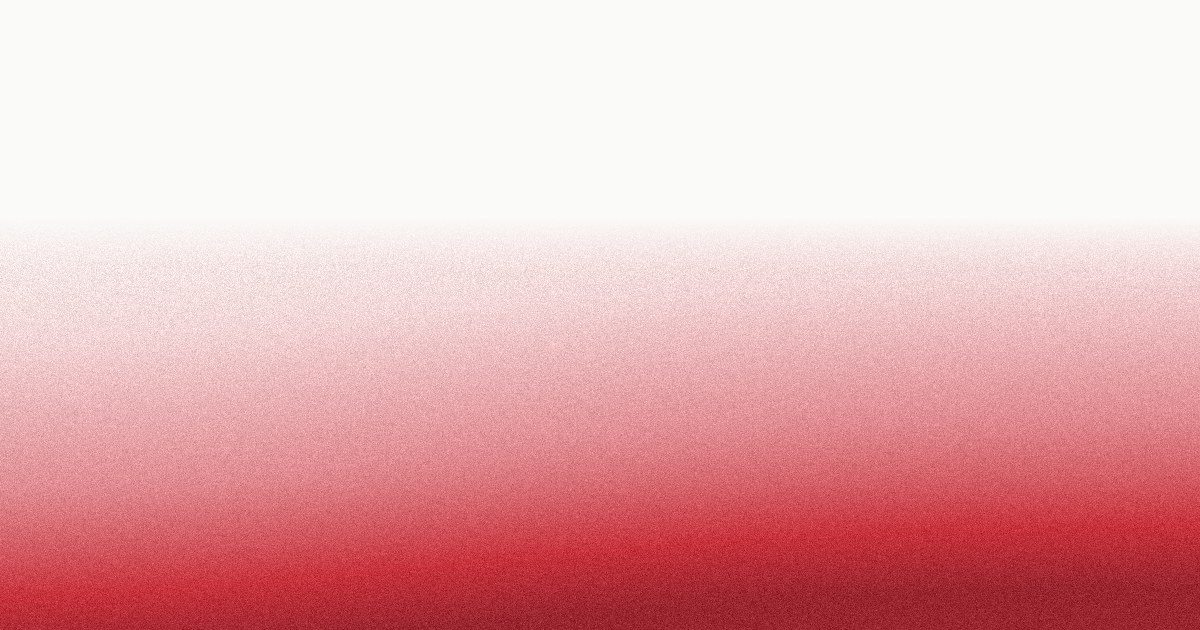
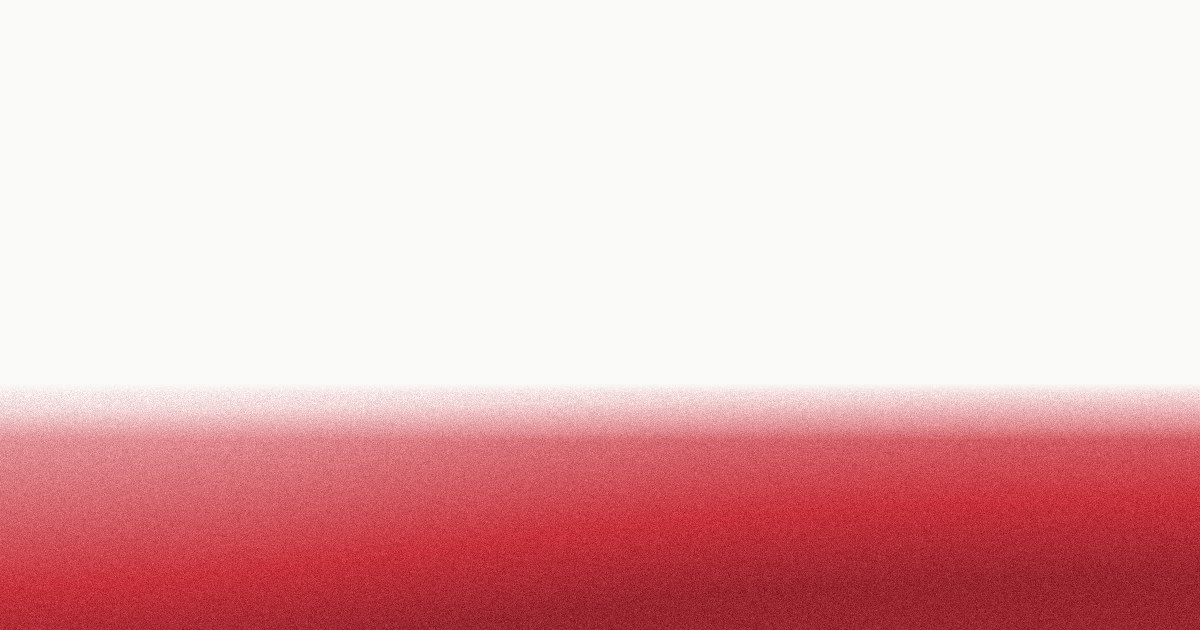
fix(landing): PC — el degradado vuelve a la receta de mobile, header de verdad, sección 2 agrupada, explicación por veredicto
QA de Fabrizio: la rampa larga de la v2.3 quedó descartada. PC usa la MISMA
receta que mobile (rampa 1,3), con 24 vh de rojo en hero y cierre (banda de
39 svh): el degradado queda en el tercio inferior y se ve igual que en el
teléfono. Las imágenes d2x vuelven a 3000×975.

Header: el wordmark y "Entrar" van en una fila de header (88 px en PC, 64 en
mobile), alineados a la línea del wordmark, no un logo suelto pegado al borde.

Sección 2: la etiqueta "La respuesta, en fácil" va pegada a la banda (22 px) y
etiqueta + banda + cuerpo se centran como un grupo; los chips siguen al pie en
mobile. Las filas de "Tres respuestas posibles" explican qué significa obtener
cada veredicto, sin cifra: no hablan de un informe en particular. Copy
pendiente de OK.

diff --git a/src/components/landing-v14/landing.css b/src/components/landing-v14/landing.css
@@ -197,7 +197,11 @@ html:has(.lv-root) .lv-input { font-size: 19px !important; }
 .lv-hero > .lv-col { z-index: 1; }
 /* solo el eje vertical: el mockup usaba el shorthand y pisaba los 24px laterales
    de .col (a 390px el texto salía pegado al borde). */
-.lv-hero .lv-top { padding-top: 24px; display: flex; align-items: flex-start; justify-content: space-between; gap: 16px; }
+/* header: wordmark a la izquierda y "Entrar" a la derecha, alineados al centro
+   de la fila, con la altura de un header (no un logo suelto pegado al borde) */
+.lv-hero .lv-top { min-height: 64px; padding-top: 12px; display: flex; align-items: flex-start; justify-content: space-between; gap: 16px; }
+/* "Entrar" centrado con la línea del wordmark (no con el bloque wordmark + slogan) */
+.lv-entrar { margin-top: 1px; padding: 0; line-height: 22px; }
 /* el h1 arriba con su propio aire; el bloque [campo + sin dirección] baja como
    unidad al tercio inferior, sobre la banda roja (FASE 1.3). */
 .lv-hero .lv-mid { flex: 1; display: flex; flex-direction: column; justify-content: flex-end; padding-top: 40px; padding-bottom: 28px; }
@@ -231,11 +235,13 @@ html:has(.lv-root) .lv-input { font-size: 19px !important; }
    "Tres respuestas posibles" + chips abajo (FASE 1.4, mobile y desktop) */
 .lv-s2 { padding: var(--lv-sec) 0; min-height: 100svh; display: flex; flex-direction: column; }
 .lv-s2 > .lv-col { flex: 1; display: flex; flex-direction: column; }
+/* etiqueta + banda + cuerpo son UN grupo, centrado en la pantalla; en mobile los
+   chips quedan al pie (los márgenes auto reparten el aire arriba y abajo del grupo) */
 .lv-s2-grid-inner { flex: 1; display: flex; flex-direction: column; }
-.lv-s2-grid-inner > .lv-idx { margin-bottom: auto; }
-.lv-ans { margin: auto 0; padding: 32px 0; }
+.lv-s2-grid-inner > .lv-idx { margin-top: auto; margin-bottom: 22px; }
+.lv-ans { margin: 0; padding: 0; }
 .lv-ans-izq { min-width: 0; }
-.lv-nav { margin-top: auto; }
+.lv-nav { margin-top: auto; padding-top: 40px; }
 /* sin data-verdict (no debería pasar) los tokens caen a Ink */
 .lv-ans:not([data-verdict]), .lv-chip:not([data-verdict]), .lv-fila:not([data-verdict]) {
   --verdict: var(--lv-ink); --verdict-deep: var(--lv-ink); --verdict-band-0: var(--lv-ink);
@@ -295,7 +301,7 @@ html:has(.lv-root) .lv-input { font-size: 19px !important; }
   margin-bottom: 8px;
 }
 .lv-fila {
-  display: grid; grid-template-columns: auto 1fr auto; align-items: center; column-gap: 14px;
+  display: grid; grid-template-columns: auto 1fr; align-items: start; column-gap: 14px;
   width: 100%; text-align: left; padding: 12px 14px; border: 1px solid var(--lv-ll); background: transparent;
   cursor: pointer; opacity: 0.55; transition: opacity 0.4s, border-color 0.4s, background 0.4s;
   font-family: var(--font-body), "IBM Plex Sans", system-ui, sans-serif; color: var(--lv-ink);
@@ -307,11 +313,7 @@ html:has(.lv-root) .lv-input { font-size: 19px !important; }
   font-size: 10px; font-weight: 700; letter-spacing: 0.12em; padding: 5px 8px; color: #fff;
   background: var(--verdict); white-space: nowrap;
 }
-.lv-fila-razon { font-size: 14px; line-height: 1.3; color: var(--lv-g2); min-width: 0; }
-.lv-fila-cifra {
-  font-family: var(--font-mono), "JetBrains Mono", ui-monospace, monospace;
-  font-size: 15px; font-weight: 700; letter-spacing: -0.02em; color: var(--verdict); white-space: nowrap;
-}
+.lv-fila-razon { font-size: 14px; line-height: 1.4; color: var(--lv-g2); min-width: 0; padding-top: 1px; }
 .lv-chips { display: flex; gap: 6px; }
 .lv-chip {
   font-family: var(--font-mono), "JetBrains Mono", ui-monospace, monospace;
@@ -476,7 +478,8 @@ html:has(.lv-root) .lv-input { font-size: 19px !important; }
   .lv-wm > span { font-size: 26px; }
   .lv-tag { font-size: 11px; letter-spacing: 0.16em; }
   .lv-hero .lv-tag { display: block; }
-  .lv-hero .lv-top { padding-top: 32px; }
+  .lv-hero .lv-top { min-height: 88px; padding-top: 20px; }
+  .lv-entrar { margin-top: 2px; line-height: 26px; }
   .lv-hero .lv-mid { padding-top: 60px; padding-bottom: 40px; }
   .lv-h1 { margin-bottom: 72px; }
   /* h1 + campo en la mitad izquierda; textura y aire a la derecha */
@@ -487,6 +490,7 @@ html:has(.lv-root) .lv-input { font-size: 19px !important; }
   /* sección 2: respuesta a la izquierda, chips al pie a la derecha */
   .lv-band { margin: 0; }
   .lv-nav { margin-top: auto; padding-top: 0; border-top: 0; flex-direction: column; align-items: flex-end; justify-content: flex-end; gap: 12px; }
+  .lv-ans { margin-bottom: auto; }
   .lv-nav .lv-lbl { text-align: right; }
   /* h1 en dos líneas dentro de la mitad izquierda (medido: 8,1 px de ancho por px de cuerpo) */
   .lv-h1 { font-size: 64px; }
@@ -538,12 +542,10 @@ html:has(.lv-root) .lv-input { font-size: 19px !important; }
   .lv-mid-izq, .lv-s4 .lv-cierre-izq { max-width: 820px; }
   .lv-proc { max-width: 40ch; }
   .lv-precio span { max-width: 40ch; }
-  /* bandas de textura en desktop (v2.3): el degradado visible ocupa el tercio
-     inferior (33 vh) con una rampa larga; rojo pleno solo en los 12 vh (hero) y
-     15 vh (cierre) del fondo. La banda mide 41,25 svh porque el 20 % superior de
-     la imagen es papel bajo la máscara. */
-  .lv-fondo-hero { height: 41.25svh; }
-  .lv-fondo-cierre { height: 41.25svh; }
+  /* bandas de textura en desktop: la MISMA receta que en mobile (rampa 1,3), con
+     24 vh de rojo para que el degradado quede en el tercio inferior */
+  .lv-fondo-hero { height: 39svh; }
+  .lv-fondo-cierre { height: 39svh; }
   /* sección 2: banda delgada, cifra 72, razón 32; columna derecha con las filas */
   .lv-band { font-size: 22px; padding: 14px 20px; letter-spacing: 0.14em; }
   .lv-num { font-size: 72px; }

diff --git a/src/components/landing-v14/Respuesta.tsx b/src/components/landing-v14/Respuesta.tsx
@@ -21,13 +21,17 @@ import { captionDeCifraClave, type CifraClave } from "@/lib/cifra-clave";
 import { EV } from "./eventos";
 import type { Veredicto } from "@/lib/types";
 
-/** Qué significa cada veredicto, en una línea (columna derecha en desktop, FASE
- *  1.6). No es la bajada del ejemplo —esa ya está en el bloque grande—, es la
- *  definición del veredicto. Copy de la landing, pendiente de OK de Fabrizio. */
-const DEFINICION: Record<Veredicto, string> = {
-  "BUSCAR OTRA": "Los números no cierran, ni ajustando.",
-  "AJUSTA SUPUESTOS": "Sirve, pero a otro precio o con más pie.",
-  COMPRAR: "Se paga solo y el precio está bien.",
+/** Qué significa obtener cada veredicto, explicado en simple (columna "Tres
+ *  respuestas posibles" en desktop). No habla de un informe en particular: es la
+ *  explicación del veredicto, por eso no lleva cifra. Copy de la landing,
+ *  pendiente de OK de Fabrizio. */
+const EXPLICACION: Record<Veredicto, string> = {
+  "BUSCAR OTRA":
+    "Deptos que no se pagan solos ni ajustando: pones plata todos los meses y la inversión no la recupera.",
+  "AJUSTA SUPUESTOS":
+    "Deptos que sirven, pero no con estos supuestos: a otro precio, con más pie o a otro plazo el negocio funciona.",
+  COMPRAR:
+    "Deptos que se pagan solos y entran a buen precio: el arriendo cubre la cuota y te queda plata cada mes.",
 };
 
 const DUR = 900;
@@ -168,8 +172,7 @@ export function Respuesta({ ejemplos }: { ejemplos: EjemploLanding[] }) {
                 onClick={() => elegir(j)}
               >
                 <span className="lv-fila-banda">{e.etiqueta}</span>
-                <span className="lv-fila-razon">{DEFINICION[e.veredicto]}</span>
-                <span className="lv-fila-cifra">{e.cifra ? fmtCifra(e.cifra) : ""}</span>
+                <span className="lv-fila-razon">{EXPLICACION[e.veredicto]}</span>
               </button>
             ))}
           </div>

diff --git a/src/components/landing-v14/Secciones.tsx b/src/components/landing-v14/Secciones.tsx
@@ -42,10 +42,10 @@ export function Hero() {
         {/* eslint-disable-next-line @next/next/no-img-element -- textura de marca ya en WebP; es el LCP y va con fetchpriority */}
         <img src="/landing/textura-hero-m2x.webp" alt="" fetchPriority="high" decoding="async" />
       </picture>
-      <div className="lv-col lv-top">
+      <header className="lv-col lv-top">
         <Wordmark />
         <Link href="/login" className="lv-entrar">Entrar</Link>
-      </div>
+      </header>
       <div className="lv-col lv-mid">
         <div className="lv-mid-izq">
           <h1 className="lv-h1">¿Ese depto es<br /><mark>buena inversión</mark>?</h1>

diff --git a/tools/texturas/generar.py b/tools/texturas/generar.py
@@ -13,16 +13,16 @@ Uso:
   python tools/texturas/generar.py banda ANCHO ALTO ROJO salida.webp
   # set de la landing (2x/3x, servido por <picture> + srcset, nada se estira). El alto es
   # 1,25 × RAMPA × ROJO: el 20 % superior queda de papel puro, que es lo que la máscara CSS
-  # del borde (18 %) funde con el fondo. En CSS la banda mide 1,25 × RAMPA × el rojo en vh.
-  # Mobile (rampa 1,3): hero 30 vh de rojo → 48,75 svh; cierre 50 vh → 81,25 svh.
-  # PC (v2.3, rampa larga = tercio inferior y transición suave): hero 12 vh de rojo con
-  # rampa 2,75 → banda 41,25 svh; cierre 15 vh con rampa 2,2 → 41,25 svh.
+  # del borde (18 %) funde con el fondo. En CSS la banda mide 1,625 × el rojo en vh, con la
+  # MISMA rampa (1,3) en mobile y PC — la rampa larga de la v2.3 se descartó en QA.
+  # Mobile: hero 30 vh de rojo → 48,75 svh; cierre 50 vh → 81,25 svh.
+  # PC: hero y cierre 24 vh de rojo → 39 svh (el degradado queda en el tercio inferior).
   python tools/texturas/generar.py banda 1200  975  600 public/landing/textura-hero-m2x.webp
   python tools/texturas/generar.py banda 1800 1463  900 public/landing/textura-hero-m3x.webp
-  python tools/texturas/generar.py banda 3000 1375  400 public/landing/textura-hero-d2x.webp 2.75
+  python tools/texturas/generar.py banda 3000  975  600 public/landing/textura-hero-d2x.webp
   python tools/texturas/generar.py banda 1200 1463  900 public/landing/textura-cierre-m2x.webp
-  python tools/texturas/generar.py banda 3000 1375  500 public/landing/textura-cierre-d2x.webp 2.2
-  python tools/texturas/generar.py banda 1200  630  150 public/landing/og-hero.jpg 2.75   # OG (JPEG: Satori no lee WebP)
+  python tools/texturas/generar.py banda 3000  975  600 public/landing/textura-cierre-d2x.webp
+  python tools/texturas/generar.py banda 1200  630  190 public/landing/og-hero.jpg   # OG (JPEG: Satori no lee WebP)
   # receta v1 (proporción del lienzo), por si hace falta reproducirla:
   python tools/texturas/generar.py hero 1440 1600 salida.webp · cierre 1440 1000 salida.webp
 Requiere: numpy, Pillow (`python -m pip install numpy pillow`).
@@ -68,8 +68,8 @@ def colormap(v):
         out[m] = hexc(c0) * (1 - t) + hexc(c1) * t
     return out
 
-RAMPA = 1.3  # v2.2: el papel llega a RAMPA × rojo. Por línea de comando se puede pasar otra
-             # (v2.3, PC: 2,75 en el hero y 2,2 en el cierre = transición más larga y suave)
+RAMPA = 1.3  # v2.2: el papel llega a RAMPA × rojo. Se puede pasar otra por línea de comando,
+             # pero la landing usa 1,3 en todos los tramos (la rampa larga se descartó en QA)
 
 def bias_banda(h, rojo, rampa=RAMPA):
     """v2.2: rampa desde abajo, en dos tramos. v = 1 en el borde inferior y 0,6 (rojo
